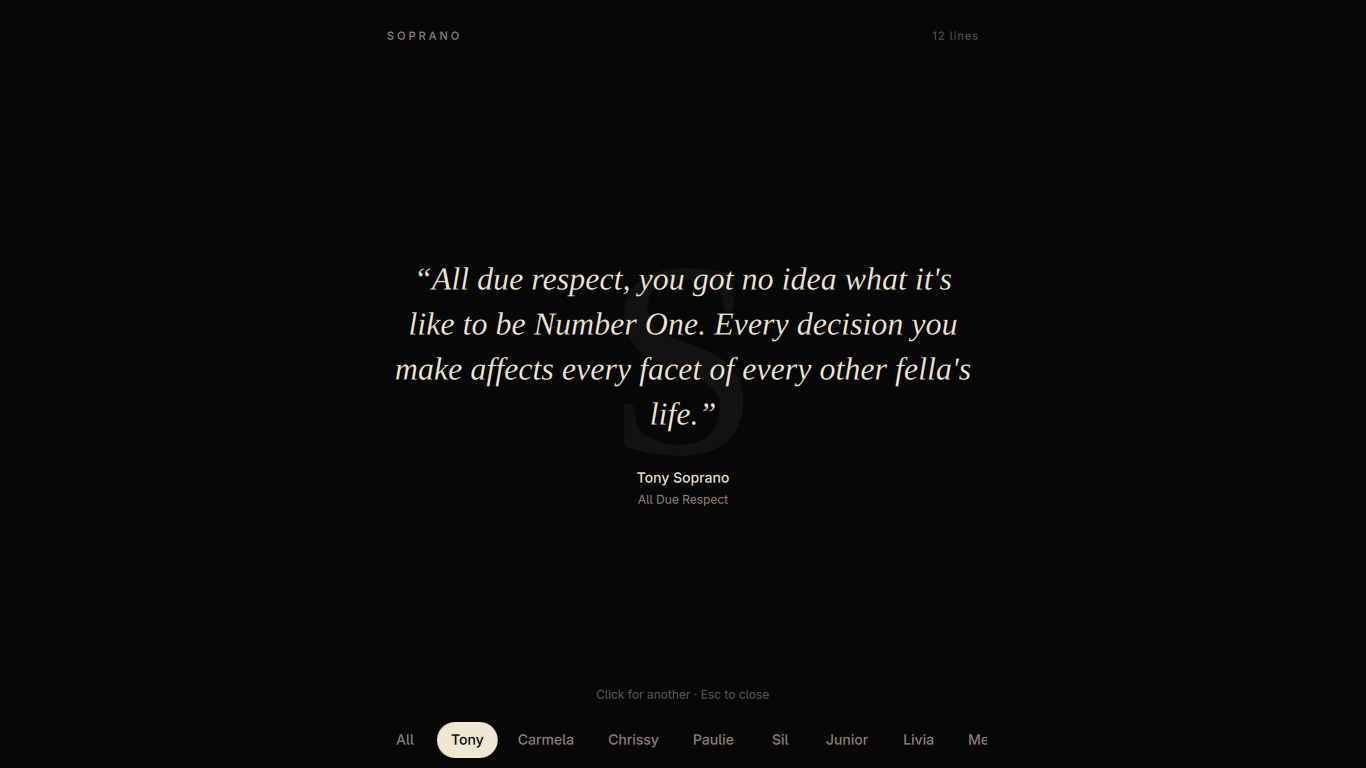
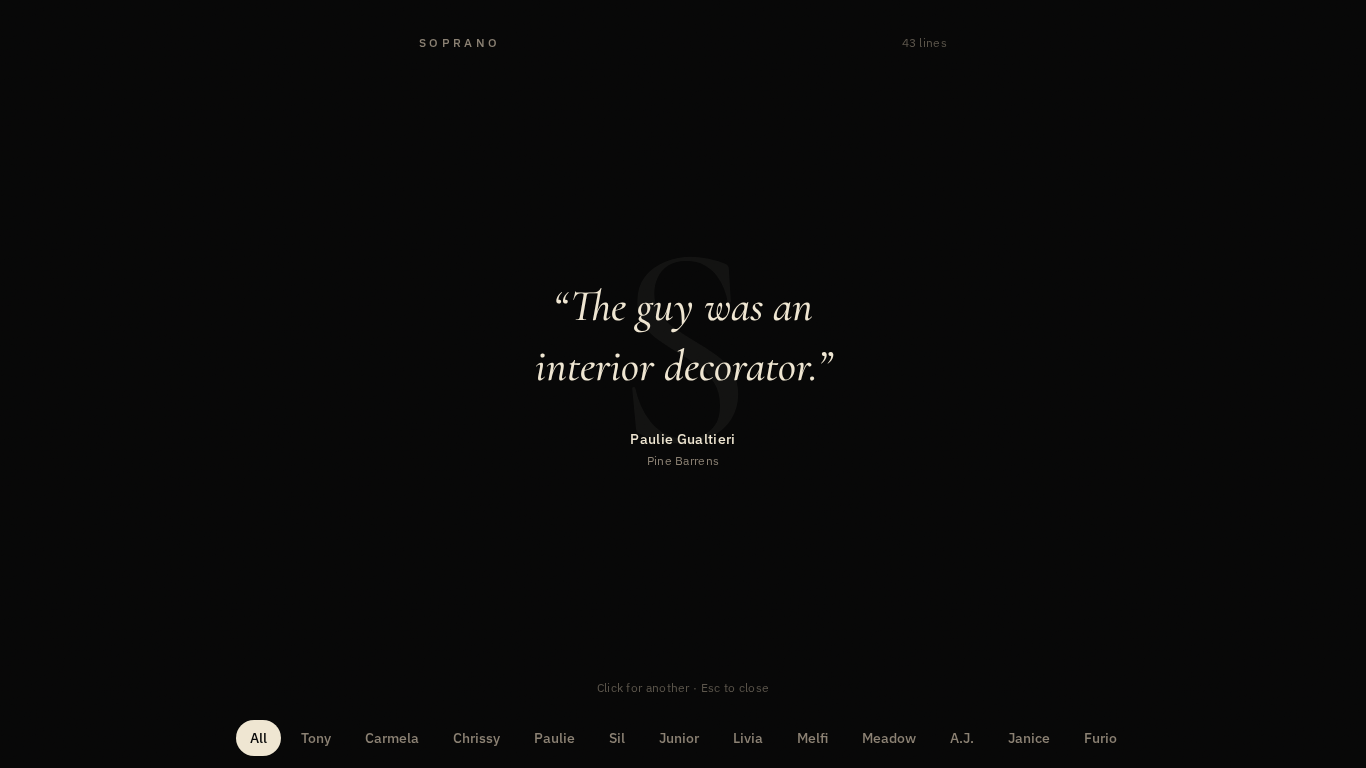
Show every character name on the overlay preview
The filter pills now span the full overlay width so names like Janice and Furio are no longer clipped off the right edge.

diff --git a/Soprano.qml b/Soprano.qml
@@ -139,8 +139,9 @@ Item {
       Item {
         id: stage
         width: Math.min(parent.width, 640)
-        height: parent.height
         anchors.horizontalCenter: parent.horizontalCenter
+        anchors.top: parent.top
+        anchors.bottom: tabs.top
 
         Text {
           anchors.horizontalCenter: parent.horizontalCenter
@@ -198,7 +199,7 @@ Item {
             width: parent.width
             horizontalAlignment: Text.AlignHCenter
             wrapMode: Text.WordWrap
-            text: "\u201C" + (root.current && root.current.text ? root.current.text : "") + "\u201D"
+            text: "“" + (root.current && root.current.text ? root.current.text : "") + "”"
             color: root.fg
             font.pixelSize: 32
             font.family: "serif"
@@ -233,35 +234,38 @@ Item {
 
         Text {
           anchors.horizontalCenter: parent.horizontalCenter
-          anchors.bottom: tabs.top
+          anchors.bottom: parent.bottom
           anchors.bottomMargin: 10
-          text: "Click for another \u00B7 Esc to close"
+          text: "Click for another · Esc to close"
           color: root.subtle
           font.pixelSize: 12
           textFormat: Text.PlainText
         }
+      }
 
-        Rectangle {
-          id: tabs
-          width: parent.width
-          height: 56
-          anchors.bottom: parent.bottom
-          color: root.bg
+      Item {
+        id: tabs
+        width: parent.width
+        height: 56
+        anchors.bottom: parent.bottom
 
-          ListView {
-            id: charList
-            anchors.fill: parent
-            anchors.leftMargin: 16
-            anchors.rightMargin: 16
-            orientation: ListView.Horizontal
-            spacing: 6
-            clip: true
+        MouseArea {
+          anchors.fill: parent
+          onClicked: function (mouse) { mouse.accepted = true }
+        }
+
+        Row {
+          id: pillRow
+          anchors.horizontalCenter: parent.horizontalCenter
+          anchors.verticalCenter: parent.verticalCenter
+          spacing: 6
+
+          Repeater {
             model: characterModel
-            boundsBehavior: Flickable.StopAtBounds
             delegate: Item {
               id: pillWrap
               required property string shortName
-              height: charList.height
+              height: 36
               width: pillBox.width
 
               Rectangle {

diff --git a/CHANGELOG.md b/CHANGELOG.md
@@ -1,5 +1,11 @@
 # Changelog
 
+## [1.0.1] - 2026-08-25
+
+### Fixed
+
+- Character names along the bottom of the overlay span the full width and wrap, so none are clipped.
+
 ## [1.0.0] - 2026-08-25
 
 ### Added
